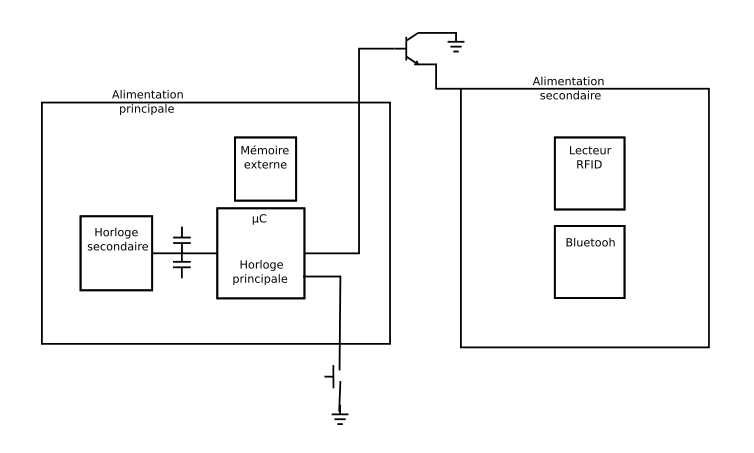
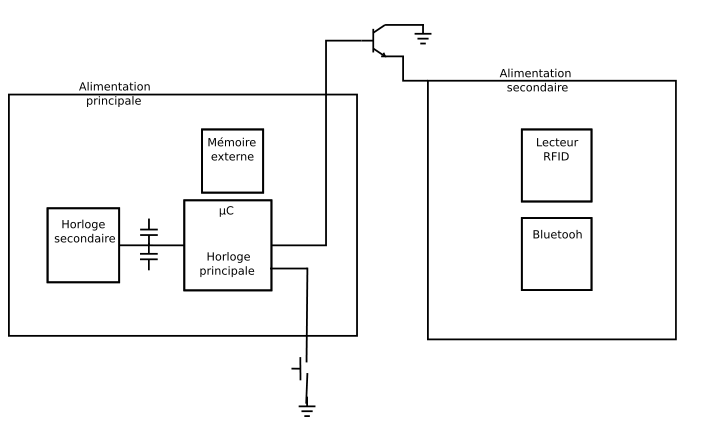
Changement de la taille du schéma

Changed region(s): [[0.0, 0.0303, 0.9499, 0.9697], [0.7047, 0.2727, 0.8273, 0.697]]

diff --git a/report/badger.tex b/report/badger.tex
@@ -276,7 +276,7 @@ d'électroniques.
 
     \begin{figure}[h]
         \begin{center}
-            \includegraphics[scale=0.6]{images/protoSchema.png} 
+            \includegraphics[scale=0.7]{images/protoSchema.png} 
         \end{center}
         \caption{Schéma du prototype}
         \label{Schéma du prototype}
